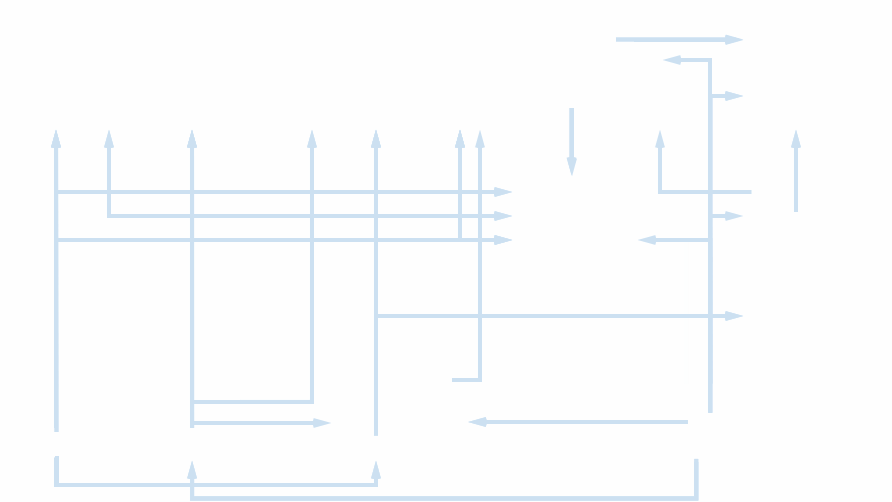
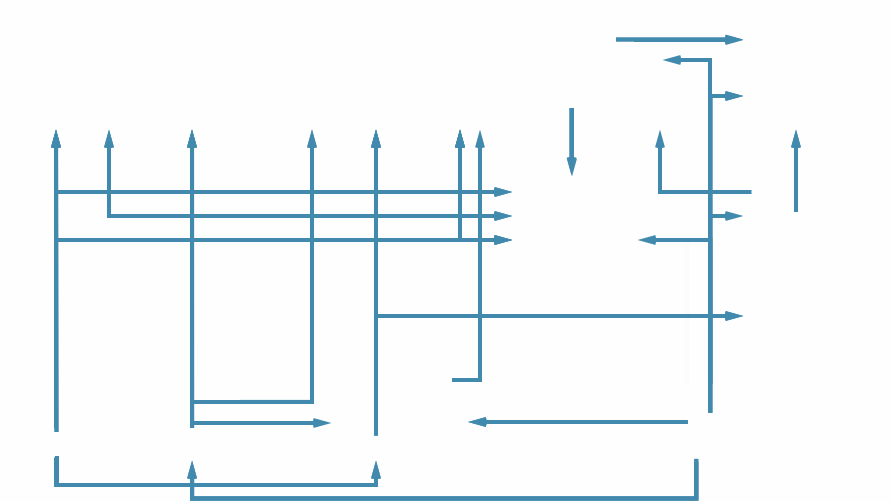
1.0.1 - oplevering
Oplevering. Dossierlink toegevoegd. Legenda bijgewerkt.

diff --git a/css/stelselplaat.css b/css/stelselplaat.css
@@ -5,11 +5,11 @@
  * Plugin Name:   ICTU / WP Stelselplaat plugin
  * Plugin URI:    https://wbvb.nl/plugins/rhswp-stelselcatalogus/
  * Description:   De mogelijkheid om een stelselplaat te tonen op een pagina
- * Version:       0.1.1
- * Version desc:  Volgende slag: pijlenschema opgeschoond. 
+ * Version:       1.0.1
+ * Version desc:  Oplevering. Dossierlink toegevoegd. 
  * Author:        Paul van Buuren
  * Author URI:    https://wbvb.nl
  * License:       GPL-2.0+
  * @link          http://wbvb.nl/themes/wp-rijkshuisstijl/
  * ----------------------------------------------------------------------------------
- */div#stelselplaat-container{background:#f3f3f3}div#stelselplaat-container abbr{border-bottom-style:none}div#stelselplaat-container abbr:hover{border-bottom-style:dotted}div#stelselplaat-container img{max-width:none;height:inherit;width:inherit}div#stelselplaat-container .stelsel{display:none;visibility:hidden}div#stelselplaat-container h2,div#stelselplaat-container h3{margin:0}div#stelselplaat-container h2{font-size:1.5em}div#stelselplaat-container h3{font-size:1.3em}div#stelselplaat-container .legenda{display:none}div#stelselplaat-container .stelsel li{font-size:12px}div#stelselplaat-container .stelsel li strong{display:block;margin-top:.5em}div#stelselplaat-container .stelsel li em+strong{margin-top:0}div#stelselplaat-container .stelsel .relaties{top:0;left:0;width:100%;height:100%}div#stelselplaat-container .stelsel>li>a{width:100%;height:100%;display:block}div#stelselplaat-container .stelsel .gereed .nietgereed .mod.box.popup{border-color:#01689b;background:#cce0f1}div#stelselplaat-container .stelsel .gereed .nietgereed .mod.box.popup h2,div#stelselplaat-container .stelsel .gereed .nietgereed .mod.box.popup h3{background:#e5f0f9;color:#000}div#stelselplaat-container .stelsel .gereed .nietgereed .mod.box.popup .close{background:#01689b;text-decoration:none;color:#fff}div#stelselplaat-container .stelsel .gereed .nietgereed .mod.box.popup .tabs{background:none repeat scroll 0 0 #e5f0f9;border-bottom:1px solid #01689b}div#stelselplaat-container .stelsel ol,div#stelselplaat-container .stelsel ol li,div#stelselplaat-container .stelsel ul,div#stelselplaat-container .stelsel ul li{list-style:none;margin-left:0;padding-left:0}div#stelselplaat-container .stelsel div.stelselplaat .stelsel>li>a:hover{text-decoration:none}div#stelselplaat-container .stelsel .shield{position:absolute;top:0;left:0;width:100%;height:100%;z-index:8;background:url(../images/white-80.png) repeat scroll 0 0 transparent}div#stelselplaat-container .stelsel .geometrie{float:right}div#stelselplaat-container .stelsel img.geometrie{height:16px;width:16px;margin-top:2px}div#stelselplaat-container .stelsel .zij>ul{padding:0}div#stelselplaat-container .stelsel .zij li:hover ul{display:block;z-index:9}div#stelselplaat-container .stelsel .ik+.zij ul ul{left:75px}div#stelselplaat-container .stelsel .mod.box .zij ul ul li{background:0 0;padding:3px;margin:0}div#stelselplaat-container .stelsel .mod.box .zij ul ul li{margin-bottom:0}div#stelselplaat-container .stelsel div.br ul{margin:0;list-style-type:none;padding:10px}div#stelselplaat-container .stelsel #container div.br h3{margin-bottom:.4343em;margin-top:1em}div#stelselplaat-container .stelsel div#page.stelselplaat{width:910px;border:1px solid #663399;width:100%}div#stelselplaat-container .stelsel div.stelselplaat a{text-decoration:none}div#stelselplaat-container .stelsel div.stelselplaat ul a:hover,div#stelselplaat-container .stelsel div.stelselplaat ul a:visited:hover{text-decoration:underline}div#stelselplaat-container .stelsel .tab div.begrip{clear:left}div#stelselplaat-container .stelsel .tab ul.authentiekegegevens li,div#stelselplaat-container .stelsel .tab ul.begrippen li,div#stelselplaat-container .stelsel .tab ul.gegevens li{float:left;width:48%;margin-bottom:.5em;padding:.1em .5em}div#stelselplaat-container .stelsel .mod.box .zie_ook ul li.external_link,div#stelselplaat-container .stelsel .zie_ook ul li.external_link{background:url(../images/directpijl.gif) no-repeat scroll 0 -3px transparent}div#stelselplaat-container .stelsel .zie_ook ul li{margin-bottom:.5em;padding-left:1.5em}div#stelselplaat-container .stelsel .stelsel .gereed .extra_tab,div#stelselplaat-container .stelsel .stelsel .gereed .zie_ook{color:#000}div#stelselplaat-container .stelsel .stelsel .mod.box ol{margin-left:10px;padding-left:20px}div#stelselplaat-container .stelsel .object{color:#000;font-family:Verdana,Arial,sans-serif;position:relative;top:-85px;background:#f3f3f3;padding:2px;border:2px solid #999;border-width:0 3px 3px;border-style:solid}div#stelselplaat-container .stelsel .gereed .object{border-color:#01689b}div#stelselplaat-container .stelsel .nietgereed .object{border-color:#01689b}div#stelselplaat-container .stelsel .ik+.zij li.nietgereed div.statusVerbinding{margin-left:-152px}div#stelselplaat-container .stelsel .ik+.zij li.gereed div.statusVerbinding{margin-left:-132px}div#stelselplaat-container .ik ul,div#stelselplaat-container .ik ul li,div#stelselplaat-container .zij ul,div#stelselplaat-container .zij ul li{padding-left:0;margin-left:0}div#stelselplaat-container .leverancier{clear:both;color:#000}div#stelselplaat-container .leverancier ul{overflow:hidden}div#stelselplaat-container .leverancier ul li{padding:5px 10px;margin:0 5px 5px 0;display:inline-block;min-width:90px;vertical-align:top;position:relative;background:#01689b;color:#fff}div#stelselplaat-container .leverancier ul li em{position:absolute;background:#f3f3f3;color:#333;margin-top:5px;display:none;left:0;padding:2px 5px;border:1px solid #AAA;width:98px;font-style:normal}div#stelselplaat-container .leverancier ul li:hover em{display:block;z-index:99}div#stelselplaat-container .leverancier .statusDoorlevering{border:0;clip:rect(0 0 0 0);height:1px;margin:-1px;overflow:hidden;padding:0;position:absolute;width:1px}div#stelselplaat-container .leverancier .statusDoorlevering+p{border:0;clip:rect(0 0 0 0);height:1px;margin:-1px;overflow:hidden;padding:0;position:absolute;width:1px}@media only screen and (min-width:650px){div#stelselplaat-container .ik{border:2px solid #01689b;background:#f3f3f3;margin:0;display:inline-block;width:30%;min-height:275px;color:#000;margin-bottom:15px;float:left;padding:.5em}div#stelselplaat-container .ik h3{background:0 0;padding:0}div#stelselplaat-container .ik li{background:#fff;display:block;color:#000;margin-bottom:3px;border:1px solid #f3f3f3}div#stelselplaat-container .ik li ul li{margin:.2px}div#stelselplaat-container .zij{vertical-align:top;display:inline-block;color:#000;width:35%;margin:0;padding:0;float:left}div#stelselplaat-container .zij li{width:100%;clear:both;background:0 0;height:2em;font-size:80%;margin-bottom:5px;position:relative}div#stelselplaat-container .zij li a{padding:.1em;display:inline-block;width:40%;height:100%;position:absolute;right:1em;top:0;line-height:1.8;text-align:right;padding-right:1em;background:#01689b;color:#fff}div#stelselplaat-container .zij li:after,div#stelselplaat-container .zij li:before{width:1.5em;position:absolute;right:0;top:50%;height:4px;margin-top:-2px;background:#01689b}div#stelselplaat-container .zij li.nietgereed:after,div#stelselplaat-container .zij li.nietgereed:before{background:#01689b}div#stelselplaat-container .zij li div.statusVerbinding{display:none;visibility:hidden}div#stelselplaat-container .zij li.gereed div.statusVerbinding{background-color:#01689b;width:120px}div#stelselplaat-container .zij li.nietgereed div.statusVerbinding{background-color:#01689b;width:140px}div#stelselplaat-container .zij li:hover div.statusVerbinding{display:block}div#stelselplaat-container .zij ul ul{position:absolute;left:0;top:0;background:#fff;color:#000;display:none;width:50%}div#stelselplaat-container .wordt-gebruikt-door li a{right:auto;left:1em;text-align:left;padding-left:1em;padding-right:inherit}div#stelselplaat-container .wordt-gebruikt-door li:before{content:' ';display:block;left:0;right:auto}div#stelselplaat-container .maakt-gebruik-van li a{right:1em;text-align:right;padding-right:1em;padding-left:inherit}div#stelselplaat-container .maakt-gebruik-van li:after{content:' ';display:block;right:0}div#stelselplaat-container .leverancier{text-align:center}div#stelselplaat-container .ik h3,div#stelselplaat-container .leverancier h3,div#stelselplaat-container .zij h3{text-align:center;margin:0 0 .7em 0;padding:.7em .5em;font-size:90%}}div#stelselplaat-container .stelsel>li{width:145px;height:125px}div#stelselplaat-container .br{background:#fff;padding:1em;margin:1em}@media only screen and (min-width:1200px){div#stelselplaat-container #BAG_li,div#stelselplaat-container #BGT_li,div#stelselplaat-container #BLAU_li,div#stelselplaat-container #BRI_li,div#stelselplaat-container #BRK_li,div#stelselplaat-container #BRO_li,div#stelselplaat-container #BRP-i_li,div#stelselplaat-container #BRP-ni_li,div#stelselplaat-container #BRP_li,div#stelselplaat-container #BRT_li,div#stelselplaat-container #BRV_li,div#stelselplaat-container #NHR_li,div#stelselplaat-container #WOZ_li{font-size:1.1rem;padding:.5em}}/*# sourceMappingURL=stelselplaat.css.map */
+ */div#stelselplaat-container{background:#f3f3f3}div#stelselplaat-container abbr{border-bottom-style:none}div#stelselplaat-container abbr:hover{border-bottom-style:dotted}div#stelselplaat-container img{max-width:none;height:inherit;width:inherit}div#stelselplaat-container .stelsel{display:none;visibility:hidden}div#stelselplaat-container h2,div#stelselplaat-container h3{margin:0}div#stelselplaat-container h2{font-size:1.5em}div#stelselplaat-container h3{font-size:1.3em}div#stelselplaat-container .legenda{display:none}div#stelselplaat-container .stelsel li{font-size:80%;overflow:hidden;padding:.2em}div#stelselplaat-container .stelsel li strong{display:block;margin-top:.5em}div#stelselplaat-container .stelsel li em+strong{margin-top:0}div#stelselplaat-container .stelsel .relaties{top:0;left:0;width:100%;height:100%}div#stelselplaat-container .stelsel>li>a{width:100%;height:100%;display:block}div#stelselplaat-container .stelsel .gereed .nietgereed .mod.box.popup{border-color:#01689b;background:#cce0f1}div#stelselplaat-container .stelsel .gereed .nietgereed .mod.box.popup h2,div#stelselplaat-container .stelsel .gereed .nietgereed .mod.box.popup h3{background:#e5f0f9;color:#000}div#stelselplaat-container .stelsel .gereed .nietgereed .mod.box.popup .close{background:#01689b;text-decoration:none;color:#fff}div#stelselplaat-container .stelsel .gereed .nietgereed .mod.box.popup .tabs{background:none repeat scroll 0 0 #e5f0f9;border-bottom:1px solid #01689b}div#stelselplaat-container .stelsel ol,div#stelselplaat-container .stelsel ol li,div#stelselplaat-container .stelsel ul,div#stelselplaat-container .stelsel ul li{list-style:none;margin-left:0;padding-left:0}div#stelselplaat-container .stelsel div.stelselplaat .stelsel>li>a:hover{text-decoration:none}div#stelselplaat-container .stelsel .shield{position:absolute;top:0;left:0;width:100%;height:100%;z-index:8;background:url(../images/white-80.png) repeat scroll 0 0 transparent}div#stelselplaat-container .stelsel .geometrie{float:right}div#stelselplaat-container .stelsel img.geometrie{height:16px;width:16px;margin-top:2px}div#stelselplaat-container .stelsel .zij>ul{padding:0}div#stelselplaat-container .stelsel .zij li:hover ul{display:block;z-index:9}div#stelselplaat-container .stelsel .ik+.zij ul ul{left:75px}div#stelselplaat-container .stelsel .mod.box .zij ul ul li{background:0 0;padding:3px;margin:0}div#stelselplaat-container .stelsel .mod.box .zij ul ul li{margin-bottom:0}div#stelselplaat-container .stelsel div.br ul{margin:0;list-style-type:none;padding:10px}div#stelselplaat-container .stelsel #container div.br h3{margin-bottom:.4343em;margin-top:1em}div#stelselplaat-container .stelsel div#page.stelselplaat{width:910px;border:1px solid #663399;width:100%}div#stelselplaat-container .stelsel div.stelselplaat a{text-decoration:none}div#stelselplaat-container .stelsel div.stelselplaat ul a:hover,div#stelselplaat-container .stelsel div.stelselplaat ul a:visited:hover{text-decoration:underline}div#stelselplaat-container .stelsel .tab div.begrip{clear:left}div#stelselplaat-container .stelsel .tab ul.authentiekegegevens li,div#stelselplaat-container .stelsel .tab ul.begrippen li,div#stelselplaat-container .stelsel .tab ul.gegevens li{float:left;width:48%;margin-bottom:.5em;padding:.1em .5em}div#stelselplaat-container .stelsel .mod.box .zie_ook ul li.external_link,div#stelselplaat-container .stelsel .zie_ook ul li.external_link{background:url(../images/directpijl.gif) no-repeat scroll 0 -3px transparent}div#stelselplaat-container .stelsel .zie_ook ul li{margin-bottom:.5em;padding-left:1.5em}div#stelselplaat-container .stelsel .stelsel .gereed .extra_tab,div#stelselplaat-container .stelsel .stelsel .gereed .zie_ook{color:#000}div#stelselplaat-container .stelsel .stelsel .mod.box ol{margin-left:10px;padding-left:20px}div#stelselplaat-container .stelsel .object{color:#000;font-family:Verdana,Arial,sans-serif;position:relative;top:-85px;background:#f3f3f3;padding:2px;border:2px solid #999;border-width:0 3px 3px;border-style:solid}div#stelselplaat-container .stelsel .gereed .object{border-color:#01689b}div#stelselplaat-container .stelsel .nietgereed .object{border-color:#01689b}div#stelselplaat-container .stelsel .ik+.zij li.nietgereed div.statusVerbinding{margin-left:-152px}div#stelselplaat-container .stelsel .ik+.zij li.gereed div.statusVerbinding{margin-left:-132px}div#stelselplaat-container .zij ul,div#stelselplaat-container .zij ul li{padding-left:0;margin-left:0}div#stelselplaat-container .leverancier{clear:both;color:#000}div#stelselplaat-container .leverancier ul{overflow:hidden}div#stelselplaat-container .leverancier ul li{padding:5px 10px;margin:0 5px 5px 0;display:inline-block;min-width:90px;vertical-align:top;position:relative;background:#01689b;color:#fff}div#stelselplaat-container .leverancier ul li em{position:absolute;background:#f3f3f3;color:#333;margin-top:5px;display:none;left:0;padding:2px 5px;border:1px solid #AAA;width:98px;font-style:normal}div#stelselplaat-container .leverancier ul li:hover em{display:block;z-index:99}div#stelselplaat-container .leverancier .statusDoorlevering{border:0;clip:rect(0 0 0 0);height:1px;margin:-1px;overflow:hidden;padding:0;position:absolute;width:1px}div#stelselplaat-container .leverancier .statusDoorlevering+p{border:0;clip:rect(0 0 0 0);height:1px;margin:-1px;overflow:hidden;padding:0;position:absolute;width:1px}@media only screen and (min-width:650px){div#stelselplaat-container .ik{border:2px solid #01689b;background:#f3f3f3;margin:0;display:inline-block;width:30%;min-height:275px;color:#000;margin-bottom:15px;float:left;padding:.5em}div#stelselplaat-container .ik h3{background:0 0;padding:0}div#stelselplaat-container .ik li{background:#fff;display:block;color:#000;margin-bottom:3px;padding-left:.2em!important;border:1px solid #f3f3f3}div#stelselplaat-container .ik li ul li{margin:.2px .2px .2px .4px;border-color:#fff;font-size:100%}div#stelselplaat-container .zij{vertical-align:top;display:inline-block;color:#000;width:35%;margin:0;padding:0;float:left}div#stelselplaat-container .zij li{width:100%;clear:both;background:0 0;height:2em;font-size:80%;margin-bottom:5px;position:relative}div#stelselplaat-container .zij li a{padding:.1em;display:inline-block;width:40%;height:100%;position:absolute;right:1em;top:0;line-height:1.8;text-align:right;padding-right:1em;background:#01689b;color:#fff}div#stelselplaat-container .zij li:after,div#stelselplaat-container .zij li:before{width:1.5em;position:absolute;right:0;top:50%;height:4px;margin-top:-2px;background:#01689b}div#stelselplaat-container .zij li.nietgereed:after,div#stelselplaat-container .zij li.nietgereed:before{background:#01689b}div#stelselplaat-container .zij li div.statusVerbinding{display:none;visibility:hidden}div#stelselplaat-container .zij li.gereed div.statusVerbinding{background-color:#01689b;width:120px}div#stelselplaat-container .zij li.nietgereed div.statusVerbinding{background-color:#01689b;width:140px}div#stelselplaat-container .zij li:hover div.statusVerbinding{display:block}div#stelselplaat-container .zij ul ul{position:absolute;left:0;top:0;background:#fff;color:#000;display:none;width:50%}div#stelselplaat-container .wordt-gebruikt-door li a{right:auto;left:1em;text-align:left;padding-left:1em;padding-right:inherit}div#stelselplaat-container .wordt-gebruikt-door li:before{content:' ';display:block;left:0;right:auto}div#stelselplaat-container .maakt-gebruik-van li a{right:1em;text-align:right;padding-right:1em;padding-left:inherit}div#stelselplaat-container .maakt-gebruik-van li:after{content:' ';display:block;right:0}div#stelselplaat-container .leverancier{text-align:center}div#stelselplaat-container .ik h3,div#stelselplaat-container .leverancier h3,div#stelselplaat-container .zij h3{text-align:center;margin:0 0 .7em 0;padding:.7em .5em;font-size:90%}}div#stelselplaat-container .stelsel>li{width:145px;height:125px}div#stelselplaat-container .br{background:#fff;padding:1em;margin:1em}@media only screen and (min-width:1200px){div#stelselplaat-container #BAG_li,div#stelselplaat-container #BGT_li,div#stelselplaat-container #BLAU_li,div#stelselplaat-container #BRI_li,div#stelselplaat-container #BRK_li,div#stelselplaat-container #BRO_li,div#stelselplaat-container #BRP-i_li,div#stelselplaat-container #BRP-ni_li,div#stelselplaat-container #BRP_li,div#stelselplaat-container #BRT_li,div#stelselplaat-container #BRV_li,div#stelselplaat-container #NHR_li,div#stelselplaat-container #WOZ_li{font-size:1.1rem;padding:.5em}}/*# sourceMappingURL=stelselplaat.css.map */

diff --git a/css/stelselplaat-js-enabled.css b/css/stelselplaat-js-enabled.css
@@ -1,1 +1,1 @@
-div#stelselplaat-container{overflow:hidden;position:relative;padding-bottom:60.5548854%;padding-top:25px;height:0}div#stelselplaat-container h3{padding:.5em}div#stelselplaat-container #adaptoratio{position:absolute;top:0;left:0;width:100%;height:100%}div#stelselplaat-container .stelsel{display:block;visibility:visible;position:relative;height:100%;width:100%;margin:0 20px 0 0;z-index:100}div#stelselplaat-container .stelsel>li{padding:0;background:0 0;position:absolute;display:block;text-align:center}div#stelselplaat-container .stelsel .popup{position:absolute;height:100%;width:100%;top:0;left:0;background:#fff;text-align:left;overflow:hidden;border:2px solid #01689b;margin-top:0}div#stelselplaat-container .stelsel .popup h2,div#stelselplaat-container .stelsel .popup p{color:#000;margin:0;padding:10px}div#stelselplaat-container .stelsel .popup h2{background:#01689b;color:#fff}div#stelselplaat-container .stelsel .popup h3{color:#000}div#stelselplaat-container .stelsel .popup .close{position:absolute;top:0;right:0;padding:3px 8px 2px;font-family:Arial,Helvetica,sans-serif;background:#d52b1e;border:1px solid #d52b1e;text-align:center;color:#000;margin:4px}div#stelselplaat-container .stelsel .popup .close:active,div#stelselplaat-container .stelsel .popup .close:focus,div#stelselplaat-container .stelsel .popup .close:hover{text-decoration:none;color:#000!important;border-color:#000!important;background:0 0}div#stelselplaat-container .legenda{vertical-align:top;background:#fff;padding:1em;margin-right:20px;display:block}div#stelselplaat-container .legenda,div#stelselplaat-container .legenda li{list-style-type:none;float:right}div#stelselplaat-container .legenda li+li{margin-top:.5em}div#stelselplaat-container .legenda li{background:0 0;position:relative;float:none;overflow:hidden;height:2rem;line-height:1.6}div#stelselplaat-container .legenda li.gereed:before,div#stelselplaat-container .legenda li.nietgereed:before{border:1px solid #000;background:#01689b;content:' ';width:1.2rem;height:1.2rem;display:block;float:left;margin:.1em .2em 0 0}div#stelselplaat-container .legenda li.nietgereed:before{background:#01689b}div#stelselplaat-container .legenda li.legenda_geo{padding-left:1.4rem;background:url(../images/geo.svg) no-repeat left center;background-size:1.2rem 1.2rem}div#stelselplaat-container .legenda span{position:absolute;left:0;top:0;width:20px;height:20px}div#stelselplaat-container #BAG_li,div#stelselplaat-container #BGT_li,div#stelselplaat-container #BLAU_li,div#stelselplaat-container #BRI_li,div#stelselplaat-container #BRK_li,div#stelselplaat-container #BRO_li,div#stelselplaat-container #BRP-i_li,div#stelselplaat-container #BRP-ni_li,div#stelselplaat-container #BRP_li,div#stelselplaat-container #BRT_li,div#stelselplaat-container #BRV_li,div#stelselplaat-container #NHR_li,div#stelselplaat-container #WOZ_li{background:#01689b;height:21%;top:90%;width:14.5%;line-height:1.4;padding:1em}div#stelselplaat-container #BAG_li,div#stelselplaat-container #BAG_li a,div#stelselplaat-container #BGT_li,div#stelselplaat-container #BGT_li a,div#stelselplaat-container #BLAU_li,div#stelselplaat-container #BLAU_li a,div#stelselplaat-container #BRI_li,div#stelselplaat-container #BRI_li a,div#stelselplaat-container #BRK_li,div#stelselplaat-container #BRK_li a,div#stelselplaat-container #BRO_li,div#stelselplaat-container #BRO_li a,div#stelselplaat-container #BRP-i_li,div#stelselplaat-container #BRP-i_li a,div#stelselplaat-container #BRP-ni_li,div#stelselplaat-container #BRP-ni_li a,div#stelselplaat-container #BRP_li,div#stelselplaat-container #BRP_li a,div#stelselplaat-container #BRT_li,div#stelselplaat-container #BRT_li a,div#stelselplaat-container #BRV_li,div#stelselplaat-container #BRV_li a,div#stelselplaat-container #NHR_li,div#stelselplaat-container #NHR_li a,div#stelselplaat-container #WOZ_li,div#stelselplaat-container #WOZ_li a{color:#fff}div#stelselplaat-container #BAG_li .popup,div#stelselplaat-container #BGT_li .popup,div#stelselplaat-container #BLAU_li .popup,div#stelselplaat-container #BRI_li .popup,div#stelselplaat-container #BRK_li .popup,div#stelselplaat-container #BRO_li .popup,div#stelselplaat-container #BRP-i_li .popup,div#stelselplaat-container #BRP-ni_li .popup,div#stelselplaat-container #BRP_li .popup,div#stelselplaat-container #BRT_li .popup,div#stelselplaat-container #BRV_li .popup,div#stelselplaat-container #NHR_li .popup,div#stelselplaat-container #WOZ_li .popup{color:#000;min-height:700px!important;overflow:hidden}div#stelselplaat-container #BLAU_li,div#stelselplaat-container #BRI_li,div#stelselplaat-container #BRK_li,div#stelselplaat-container #BRT_li,div#stelselplaat-container #BRV_li{top:8%}div#stelselplaat-container #BRV_li{left:2%}div#stelselplaat-container #BRI_li{left:18%}div#stelselplaat-container #BLAU_li{left:34%}div#stelselplaat-container #BRK_li{left:50%;width:25%}div#stelselplaat-container #BRT_li{right:2%}div#stelselplaat-container #BGT_li{top:35%;right:2%;height:12%}div#stelselplaat-container #BRO_li{top:52%;right:2%;height:12%}div#stelselplaat-container #WOZ_li{top:35%;left:57%}div#stelselplaat-container #BAG_li{top:70%;right:2%;width:25%}div#stelselplaat-container #NHR_li{top:70%;left:38%}div#stelselplaat-container #BRP_li{width:25%;left:2%;top:70%}div#stelselplaat-container #BRP-i_li,div#stelselplaat-container #BRP-ni_li{width:11%;height:10%}div#stelselplaat-container #BRP-ni_li{top:78%;left:3%}div#stelselplaat-container #BRP-i_li{top:78%;left:15%}.tab{display:none}.tab{left:0;position:absolute;top:105px;width:100%;padding-bottom:2em;overflow:hidden}li[style*="700px"]{overflow:visible!important;min-height:auto!important}h2{padding:.5em .5em 0 .5em}/*# sourceMappingURL=stelselplaat-js-enabled.css.map */
+div#stelselplaat-container{overflow:hidden;position:relative;padding-bottom:60.5548854%;padding-top:25px;height:0}div#stelselplaat-container h3{padding:.5em}div#stelselplaat-container #adaptoratio{position:absolute;top:0;left:0;width:100%;height:100%}div#stelselplaat-container .stelsel{display:block;visibility:visible;position:relative;height:100%;width:100%;margin:0 20px 0 0;z-index:100}div#stelselplaat-container .stelsel>li{padding:0;background:0 0;position:absolute;display:block;text-align:center}div#stelselplaat-container .stelsel .popup{position:absolute;height:100%;width:100%;top:0;left:0;background:#fff;text-align:left;overflow:hidden;border:2px solid #01689b;margin-top:0}div#stelselplaat-container .stelsel .popup a,div#stelselplaat-container .stelsel .popup h2,div#stelselplaat-container .stelsel .popup p{color:#000}div#stelselplaat-container .stelsel .popup h2,div#stelselplaat-container .stelsel .popup p{margin:0;padding:10px}div#stelselplaat-container .stelsel .popup .statusBasisregistratie{overflow:hidden;clear:both;display:block;margin:.5em 0 1em 0}div#stelselplaat-container .stelsel .popup .dossier-link{display:inline-block;float:right;padding:5px 10px 5px 5px}div#stelselplaat-container .stelsel .popup .dossier-link a{display:block;padding:5px .5em;background:#01689b;color:#fff;position:relative;padding-right:1.5em}div#stelselplaat-container .stelsel .popup .dossier-link a:after{font-weight:400;font-family:"RO Icons";display:inline-block;vertical-align:middle;content:"";speak:none;-webkit-font-smoothing:antialiased;-moz-osx-font-smoothing:grayscale;color:#fff;font-size:80%;line-height:1em;position:absolute;right:0;top:8px;width:1.5em}div#stelselplaat-container .stelsel .popup h2{background:#01689b;color:#fff}div#stelselplaat-container .stelsel .popup h3{color:#000}div#stelselplaat-container .stelsel .popup .close{position:absolute;top:0;right:0;padding:3px 8px 2px;font-family:Arial,Helvetica,sans-serif;background:#d52b1e;border:1px solid #d52b1e;text-align:center;color:#000;margin:4px}div#stelselplaat-container .stelsel .popup .close:active,div#stelselplaat-container .stelsel .popup .close:focus,div#stelselplaat-container .stelsel .popup .close:hover{text-decoration:none;color:#000!important;border-color:#000!important;background:0 0}div#stelselplaat-container .legenda{vertical-align:top;background:#fff;padding:1em;margin-right:20px;display:block}div#stelselplaat-container .legenda,div#stelselplaat-container .legenda li{list-style-type:none;float:right}div#stelselplaat-container .legenda li+li{margin-top:.5em}div#stelselplaat-container .legenda li{background:0 0;position:relative;float:none;overflow:hidden;height:2rem;line-height:1.6}div#stelselplaat-container .legenda li.gereed:before,div#stelselplaat-container .legenda li.nietgereed:before{border:1px solid #000;background:#01689b;content:' ';width:1.2rem;height:1.2rem;display:block;float:left;margin:.1em .2em 0 0}div#stelselplaat-container .legenda li.nietgereed:before{background:#01689b}div#stelselplaat-container .legenda li.legenda_geo{padding-left:1.4rem;background:url(../images/geo.svg) no-repeat left center;background-size:1.2rem 1.2rem}div#stelselplaat-container .legenda span{position:absolute;left:0;top:0;width:20px;height:20px}div#stelselplaat-container #BAG_li,div#stelselplaat-container #BGT_li,div#stelselplaat-container #BLAU_li,div#stelselplaat-container #BRI_li,div#stelselplaat-container #BRK_li,div#stelselplaat-container #BRO_li,div#stelselplaat-container #BRP-i_li,div#stelselplaat-container #BRP-ni_li,div#stelselplaat-container #BRP_li,div#stelselplaat-container #BRT_li,div#stelselplaat-container #BRV_li,div#stelselplaat-container #NHR_li,div#stelselplaat-container #WOZ_li{background:#01689b;height:21%;top:90%;width:14.5%;line-height:1.4;padding:1em}div#stelselplaat-container #BAG_li,div#stelselplaat-container #BAG_li a,div#stelselplaat-container #BGT_li,div#stelselplaat-container #BGT_li a,div#stelselplaat-container #BLAU_li,div#stelselplaat-container #BLAU_li a,div#stelselplaat-container #BRI_li,div#stelselplaat-container #BRI_li a,div#stelselplaat-container #BRK_li,div#stelselplaat-container #BRK_li a,div#stelselplaat-container #BRO_li,div#stelselplaat-container #BRO_li a,div#stelselplaat-container #BRP-i_li,div#stelselplaat-container #BRP-i_li a,div#stelselplaat-container #BRP-ni_li,div#stelselplaat-container #BRP-ni_li a,div#stelselplaat-container #BRP_li,div#stelselplaat-container #BRP_li a,div#stelselplaat-container #BRT_li,div#stelselplaat-container #BRT_li a,div#stelselplaat-container #BRV_li,div#stelselplaat-container #BRV_li a,div#stelselplaat-container #NHR_li,div#stelselplaat-container #NHR_li a,div#stelselplaat-container #WOZ_li,div#stelselplaat-container #WOZ_li a{color:#fff}div#stelselplaat-container #BAG_li .popup,div#stelselplaat-container #BGT_li .popup,div#stelselplaat-container #BLAU_li .popup,div#stelselplaat-container #BRI_li .popup,div#stelselplaat-container #BRK_li .popup,div#stelselplaat-container #BRO_li .popup,div#stelselplaat-container #BRP-i_li .popup,div#stelselplaat-container #BRP-ni_li .popup,div#stelselplaat-container #BRP_li .popup,div#stelselplaat-container #BRT_li .popup,div#stelselplaat-container #BRV_li .popup,div#stelselplaat-container #NHR_li .popup,div#stelselplaat-container #WOZ_li .popup{color:#000;min-height:700px!important;overflow:hidden}div#stelselplaat-container #BLAU_li,div#stelselplaat-container #BRI_li,div#stelselplaat-container #BRK_li,div#stelselplaat-container #BRT_li,div#stelselplaat-container #BRV_li{top:8%}div#stelselplaat-container #BRV_li{left:2%}div#stelselplaat-container #BRI_li{left:18%}div#stelselplaat-container #BLAU_li{left:34%}div#stelselplaat-container #BRK_li{left:50%;width:25%}div#stelselplaat-container #BRT_li{right:2%}div#stelselplaat-container #BGT_li{top:35%;right:2%;height:12%}div#stelselplaat-container #BRO_li{top:52%;right:2%;height:12%}div#stelselplaat-container #WOZ_li{top:35%;left:57%}div#stelselplaat-container #BAG_li{top:70%;right:2%;width:25%}div#stelselplaat-container #NHR_li{top:70%;left:38%}div#stelselplaat-container #BRP_li{width:25%;left:2%;top:70%}div#stelselplaat-container #BRP-i_li,div#stelselplaat-container #BRP-ni_li{width:11%;height:10%}div#stelselplaat-container #BRP-ni_li{top:78%;left:3%}div#stelselplaat-container #BRP-i_li{top:78%;left:15%}.tab{display:none}.tab{left:0;position:absolute;top:105px;width:100%;padding-bottom:2em;overflow:hidden}li[style*="700px"]{overflow:visible!important;min-height:auto!important}h2{padding:.5em .5em 0 .5em}/*# sourceMappingURL=stelselplaat-js-enabled.css.map */

diff --git a/less/stelselplaat-js-enabled.less b/less/stelselplaat-js-enabled.less
@@ -4,8 +4,8 @@
  * ICTU / WP Stelselplaat plugin
  * ----------------------------------------------------------------------------------
  * Description:   CSS-file used if JS is enabled.
- * Version:       0.1.1
- * Version desc:  Volgende slag: pijlenschema opgeschoond. 
+ * Version:       1.0.1
+ * Version desc:  Oplevering. Dossierlink toegevoegd. 
  * Author:        Paul van Buuren
  * Author URI:    https://wbvb.nl
  * License:       GPL-2.0+
@@ -68,10 +68,50 @@ div#stelselplaat-container  {
       border: 2px solid @color_gereed;
       margin-top: 0;
 
-      p, h2 {
+      p, a, h2 {
         color: @txt;
+      }
+      p,
+      h2 {
         margin: 0;
         padding: 10px;
+      }
+      .statusBasisregistratie {
+        overflow: hidden;
+        clear: both;
+        display: block;
+        margin: .5em 0 1em 0;
+      }
+      .dossier-link {
+        display: inline-block;
+        float: right;
+        padding: 5px 10px 5px 5px;
+        a {
+          display: block;
+          padding: 5px .5em;
+          background: @color_nietgereed;
+          color: @wit;
+          position: relative;
+          padding-right: 1.5em;
+          
+          &:after {
+            font-weight: normal;
+            font-family: "RO Icons";
+            display: inline-block;
+            vertical-align: middle;
+            content: "";
+            speak: none;
+            -webkit-font-smoothing: antialiased;
+            -moz-osx-font-smoothing: grayscale;
+            color: @wit;
+            font-size: 80%;
+            line-height: 1em;
+            position: absolute;
+            right: 0;
+            top: 8px;
+            width: 1.5em;
+          }            
+        }
       }
 
       h2 {

diff --git a/less/stelselplaat.less b/less/stelselplaat.less
@@ -6,8 +6,8 @@
  * Plugin Name:   ICTU / WP Stelselplaat plugin
  * Plugin URI:    https://wbvb.nl/plugins/rhswp-stelselcatalogus/
  * Description:   De mogelijkheid om een stelselplaat te tonen op een pagina
- * Version:       0.1.1
- * Version desc:  Volgende slag: pijlenschema opgeschoond. 
+ * Version:       1.0.1
+ * Version desc:  Oplevering. Dossierlink toegevoegd. 
  * Author:        Paul van Buuren
  * Author URI:    https://wbvb.nl
  * License:       GPL-2.0+
@@ -69,7 +69,9 @@
       .stelsel {
         
         li {
-          font-size: 12px;
+          font-size: 80%;
+          overflow: hidden;
+          padding: .2em;
           
           strong {
             display: block;
@@ -283,7 +285,6 @@
 
 
 
-    .ik,
     .zij {
       ul {
         &, li {
@@ -341,6 +342,7 @@
 
 
     @media only screen and (min-width: ( @break_tablet ) ) {
+
   
       /* Detailplaten in popup */
       .ik {
@@ -365,10 +367,13 @@
           display: block;
           color: @txt;
           margin-bottom: 3px;
+          padding-left: .2em !important;
           border: 1px solid @grijs;
           
           & ul li {
-            margin: .2px;
+            margin: .2px .2px .2px .4px;
+            border-color: @wit;
+            font-size: 100%;
           }
         }    
       }
@@ -622,7 +627,6 @@
   .leverancier ul + p {
   	margin: 7px -1px 0 !important;
   	line-height: 1em;
-  	font-size: 10px;
   }
   #NHR_li .object {
   	top: -105px;

diff --git a/js/stelselplaat.js b/js/stelselplaat.js
@@ -5,8 +5,8 @@
  * Zoekresultaatpagina
  * ----------------------------------------------------------------------------------
  * Description:   De mogelijkheid om een stelselplaat te tonen op een pagina
- * Version:       0.1.1
- * Version desc:  Volgende slag: pijlenschema opgeschoond. 
+ * Version:       1.0.1
+ * Version desc:  Oplevering. Dossierlink toegevoegd. 
  * Author:        Paul van Buuren
  * Author URI:    https://wbvb.nl
  * License:       GPL-2.0+

diff --git a/less/00-palet.less b/less/00-palet.less
@@ -8,8 +8,8 @@
 // * @author  Paul van Buuren
 // * @license GPL-2.0+
 // * @package wp-rijkshuisstijl
-// * @version 0.1.15
-// * @desc.   SVG images, Kleurcheck, CSS RHS, widgets, code-opschoning 
+// * Version:       1.0.1
+// * Version desc:  Oplevering. Dossierlink toegevoegd. 
 // * @link    http://wbvb.nl/themes/wp-rijkshuisstijl/
 // **
 

diff --git a/rhswp-stelselcatalogus.php b/rhswp-stelselcatalogus.php
@@ -5,7 +5,7 @@
  * Plugin Name:   ICTU / WP Stelselplaat plugin
  * Plugin URI:    https://wbvb.nl/plugins/rhswp-stelselcatalogus/
  * Description:   De mogelijkheid om een stelselplaat te tonen op een pagina
- * Version:       0.1.1
+ * Version:       1.0.1
  * Version desc:  Volgende slag: pijlenschema opgeschoond. 
  * Author:        Paul van Buuren
  * Author URI:    https://wbvb.nl
@@ -502,86 +502,7 @@ de list items voor de elementen in de kaart (ul.stelsel) </p>
 				'class' => '',
 				'id' => '',
 			),
-			'default_value' => '#BRV_li {
-	top: 15px;
-	left: 20px;
-	width: 110px;
-}
-#BRI_li {
-	top: 15px;
-	left: 150px;
-	width: 110px;
-}
-#BLAU_li {
-	top: 15px;
-	left: 280px;
-	width: 110px;
-}
-#BRK_li {
-	top: 15px;
-	left: 440px;
-	width: 225px; /* 17%; */
-}
-#BRT_li {
-	top: 15px;
-	left: 725px;
-}
-#BGT_li {
-	top: 160px;
-	left: 725px;
-	height: 75px;
-}
-#BRO_li {
-	top: 255px;
-	left: 725px;
-	height: 75px;
-}
-#WOZ_li {
-	top: 175px;
-	left: 505px;
-	width: 125px;
-}
-#BAG_li {
-	top: 355px;
-	left: 625px;
-	width: 245px;
-}
-#NHR_li {
-	top: 355px;
-	left: 345px;
-	width: 120px;
-}
-#BRP_li {
-	top: 355px;
-	left: 20px;
-	width: 245px;
-}
-#BRP-ni_li {
-	top: 395px;
-	left: 30px;
-	width: 110px;
-	border: 1px solid #fff;
-	height: 60px;
-}
-#BRP-i_li {
-	top: 395px;
-	left: 145px;
-	width: 110px;
-	border: 1px solid #fff;
-	height: 60px;
-}
-#NHR_li .object {
-	top: -105px;
-}
-#BRP-ni_li .object {
-	top: -7px;
-}
-#BRP-i_li .object {
-	top: -7px;
-}
-.mod.box .zij > ul > li {
-	width: 63px;
-}',
+			'default_value' => '',
 			'placeholder' => '',
 			'maxlength' => '',
 			'rows' => '',
@@ -705,7 +626,7 @@ de list items voor de elementen in de kaart (ul.stelsel) </p>
 					'name' => 'stelselplaat_bouwsteen_ik',
 					'type' => 'wysiwyg',
 					'instructions' => '',
-					'required' => 1,
+					'required' => 0,
 					'conditional_logic' => 0,
 					'wrapper' => array (
 						'width' => '',
@@ -717,9 +638,34 @@ de list items voor de elementen in de kaart (ul.stelsel) </p>
 					'toolbar' => 'full',
 					'media_upload' => 0,
 				),
+
+    		array (
+    			'key' => 'field_583dac65d0f81',
+    			'label' => 'Link naar dossier (7)',
+    			'name' => 'stelselplaat_link_naar_dossier',
+    			'type' => 'taxonomy',
+    			'instructions' => '',
+    			'required' => 0,
+    			'conditional_logic' => 0,
+    			'wrapper' => array (
+    				'width' => '',
+    				'class' => '',
+    				'id' => '',
+    			),
+    			'taxonomy' => 'dossiers',
+    			'field_type' => 'radio',
+    			'allow_null' => 1,
+    			'add_term' => 0,
+    			'save_terms' => 0,
+    			'load_terms' => 0,
+    			'return_format' => 'object',
+    			'multiple' => 0,
+    		),
+
+				
 				array (
 					'key' => 'field_582ecc41d3345',
-					'label' => 'Wordt gebruikt door (7)',
+					'label' => 'Wordt gebruikt door (8)',
 					'name' => 'stelselplaat_bouwsteen_zij_wordt_gebruikt_door',
 					'type' => 'wysiwyg',
 					'instructions' => '',
@@ -737,7 +683,7 @@ de list items voor de elementen in de kaart (ul.stelsel) </p>
 				),
 				array (
 					'key' => 'field_582ecf40ee1df',
-					'label' => 'Levert gegevens door (8)',
+					'label' => 'Levert gegevens door (9)',
 					'name' => 'stelselplaat_bouwsteen_leverancier',
 					'type' => 'wysiwyg',
 					'instructions' => '',
@@ -796,6 +742,7 @@ de list items voor de elementen in de kaart (ul.stelsel) </p>
 					'rows' => '',
 					'new_lines' => '',
 				),
+/*				
 				array (
 					'key' => 'field_582ede1165ca1',
 					'label' => 'Pijlenschema voor hover',
@@ -820,6 +767,7 @@ de list items voor de elementen in de kaart (ul.stelsel) </p>
 					'max_size' => '',
 					'mime_types' => '',
 				),
+*/				
 			),
 		),
 	),

diff --git a/stelselcatalogus-template.php b/stelselcatalogus-template.php
@@ -7,8 +7,8 @@
  * Zoekresultaatpagina
  * ----------------------------------------------------------------------------------
  * Description:   De mogelijkheid om een stelselplaat te tonen op een pagina
- * Version:       0.1.1
- * Version desc:  Volgende slag: pijlenschema opgeschoond. 
+ * Version:       1.0.1
+ * Version desc:  Oplevering. Dossierlink toegevoegd. 
  * Author:        Paul van Buuren
  * Author URI:    https://wbvb.nl
  * License:       GPL-2.0+
@@ -212,6 +212,14 @@ function rhswp_write_stelselplaat() {
   		$stelselplaat_bouwsteen_zij_rechts      = get_sub_field('stelselplaat_bouwsteen_zij_wordt_gebruikt_door');
   		$stelselplaat_bouwsteen_leverancier     = get_sub_field('stelselplaat_bouwsteen_leverancier');
   		$stelselplaat_bouwsteen_gepubliceerd    = get_sub_field('stelselplaat_bouwsteen_gepubliceerd');
+  		if ( get_sub_field('stelselplaat_link_naar_dossier') ) {
+    		$stelselplaat_link_naar_dossier        = get_sub_field('stelselplaat_link_naar_dossier');
+    		$stelselplaat_link_naar_dossier        = '<p class="dossier-link"><a href="' . get_term_link( $stelselplaat_link_naar_dossier ) . '">' . __( 'Bekijk het dossier', 'rhswp-stelselcatalogus' ) . '</a></p>';
+  		}
+  		else {
+    		$stelselplaat_link_naar_dossier = '';
+  		}
+    
     
       if ( 'gepubliceerd' == $stelselplaat_bouwsteen_gepubliceerd && $stelselplaat_bouwsteen_id ) {
 
@@ -223,7 +231,7 @@ function rhswp_write_stelselplaat() {
 
         echo '<div id="' . $stelselplaat_bouwsteen_id . '" class="br ' . $stelselplaat_bouwsteen_id . ' hide_js">
             <h2>' . $stelselplaat_bouwsteen_heading . '</h2>
-            <div class="statusBasisregistratie">' . $stelselplaat_bouwsteen_inhoud . '</div>
+            <div class="statusBasisregistratie">' . $stelselplaat_link_naar_dossier . $stelselplaat_bouwsteen_inhoud . '</div>
             <div class="zij maakt-gebruik-van">
               <h3>' . $stelselplaat_bouwsteen_titel_abbr . ' ' . __( 'maakt gebruik van', 'rhswp-stelselcatalogus' ) . '</h3>
               ' . $stelselplaat_bouwsteen_zij_links . '
